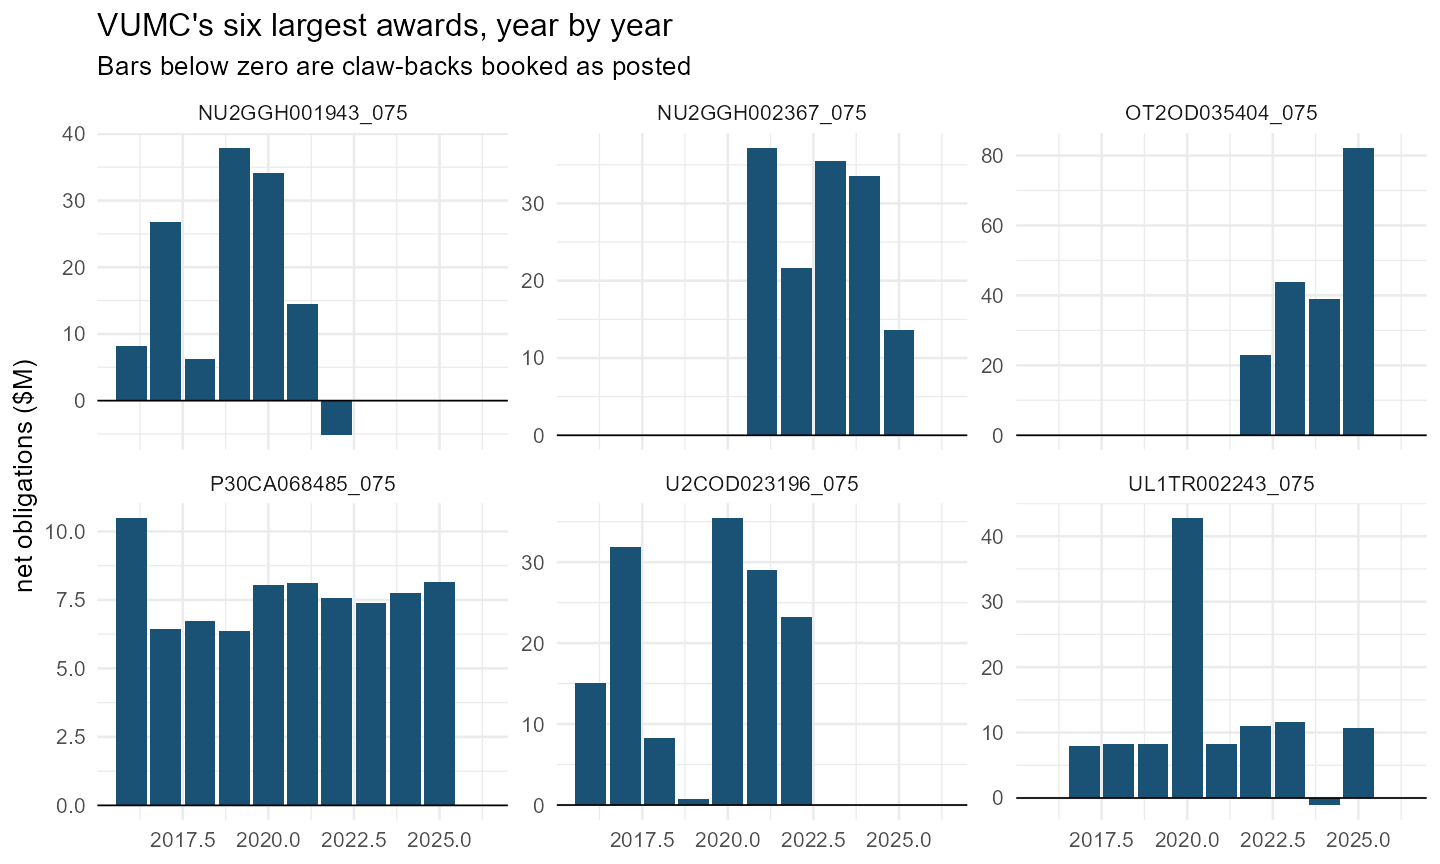
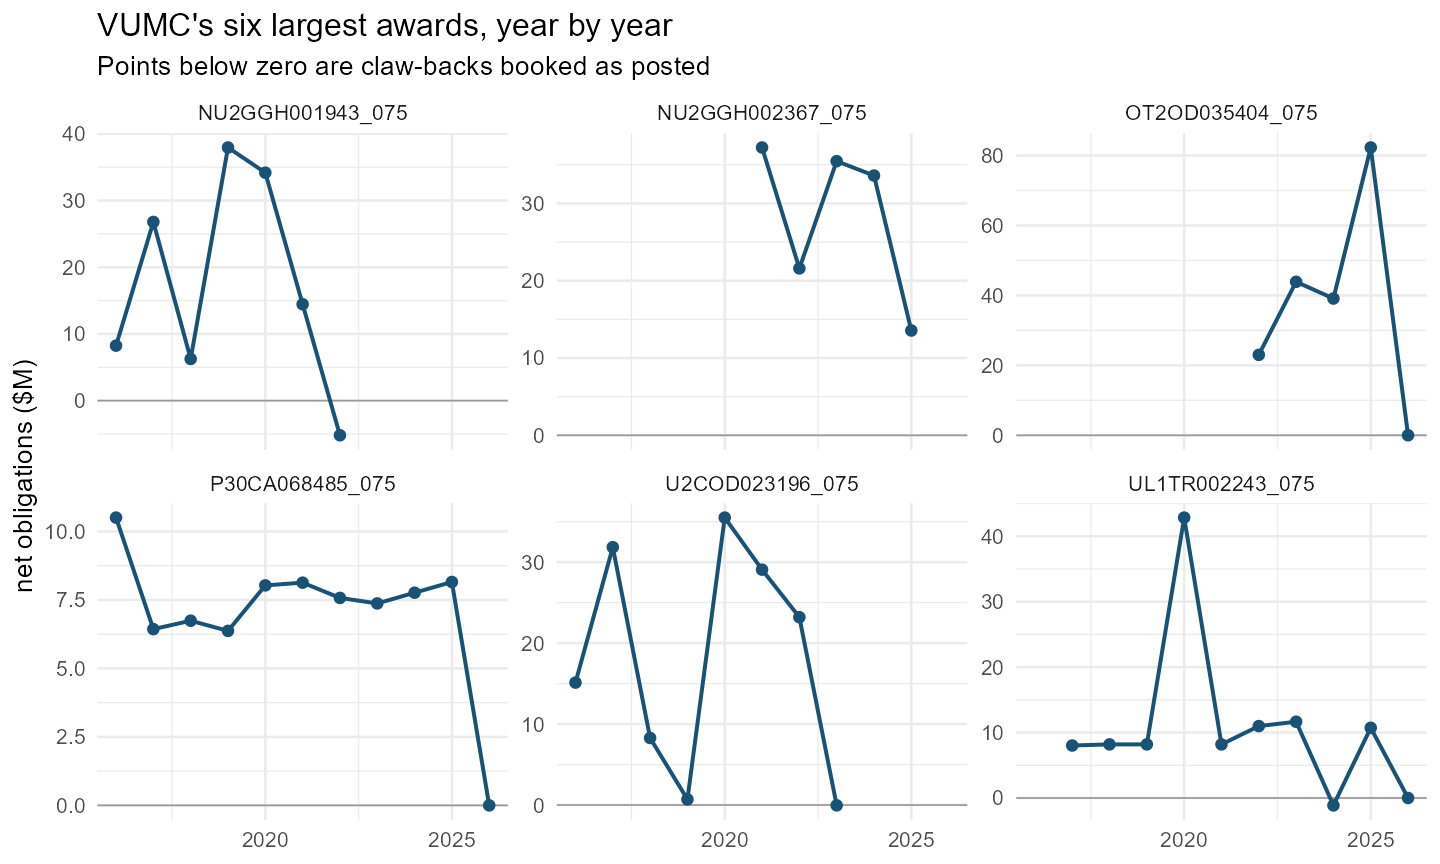
Rebuild accounting article from the updated vignette
The previous commit pushed a stale render: the article subprocess uses
the installed package, which predated the vumc data objects and failed
silently. Installed the current tree and re-rendered.

diff --git a/docs/articles/accounting.html b/docs/articles/accounting.html
@@ -5357,7 +5357,7 @@ n_subawards_in
 <span><span class="co">#&gt;  $ deobligation_policy  : chr "as_posted"</span></span>
 <span><span class="co">#&gt;  $ subawards_out_fetched: logi TRUE</span></span>
 <span><span class="co">#&gt;  $ n_orgs               : int 1</span></span>
-<span><span class="co">#&gt;  $ built_at             : POSIXct[1:1], format: "2026-08-27 10:33:07"</span></span></code></pre></div>
+<span><span class="co">#&gt;  $ built_at             : POSIXct[1:1], format: "2026-08-27 10:38:34"</span></span></code></pre></div>
 </div>
 </div>
 <div class="section level2">
@@ -5814,11 +5814,11 @@ federal agencies:</p>
 <span><span class="co">#&gt;  9:               Department of Agriculture      2     1</span></span>
 <span><span class="co">#&gt; 10:    Agency for International Development      1     1</span></span>
 <span><span class="co">#&gt; 11:         Environmental Protection Agency      1     1</span></span></code></pre></div>
+<p><img src="accounting_files/figure-html/fig-agencies-1.png" alt="" width="720"></p>
 </div>
 <div class="section level3">
 <h3 id="six-awards-over-their-lives">8.6 Six awards over their lives<a class="anchor" aria-label="anchor" href="#six-awards-over-their-lives"></a>
 </h3>
-<pre><code><span><span class="co">#&gt; Warning: package 'ggplot2' was built under R version 4.4.3</span></span></code></pre>
 <p><img src="accounting_files/figure-html/fig-awards-1.png" alt="" width="720"></p>
 </div>
 <div class="section level3">
